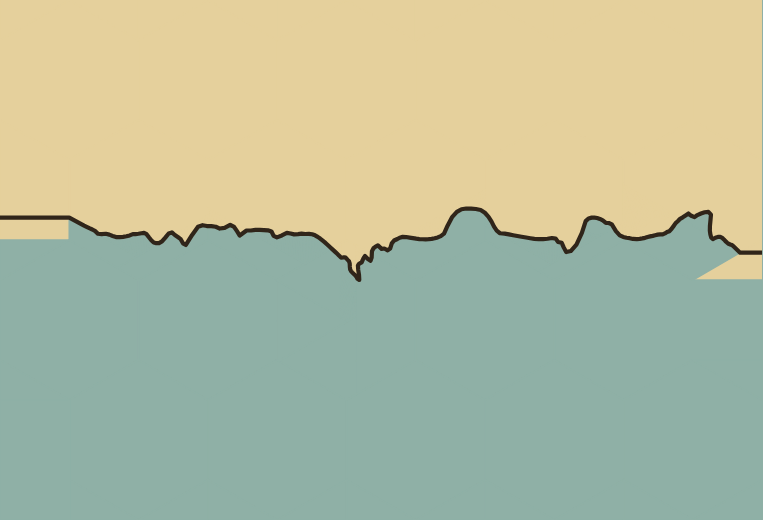
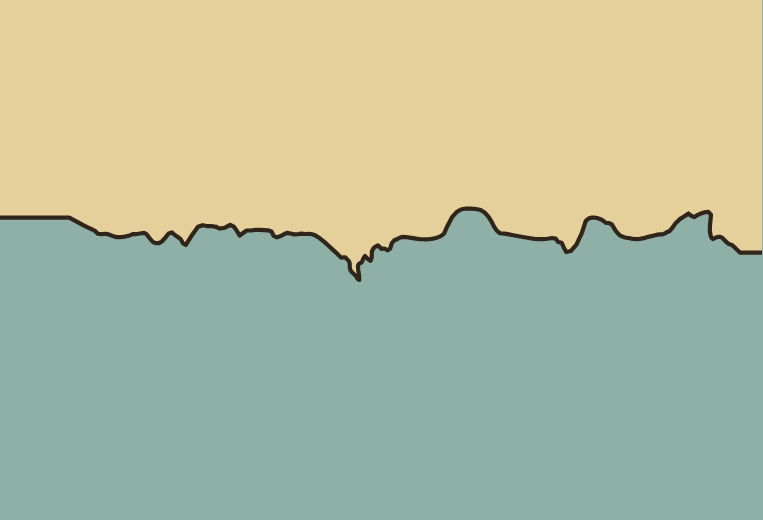
Keep border-notch land inside the finished coastline

Changed region(s): [[0.9043, 0.4923, 1.0, 0.5538], [0.0, 0.4, 0.0904, 0.4615]]

diff --git a/src/render/scene.ts b/src/render/scene.ts
@@ -1458,6 +1458,7 @@ function buildStaticSceneInner(map: MapState, opts: SceneOptions): Scene {
     }
     // The notches the hex grid leaves at the page's edge belong to the border
     // hex beside them: what it is, they are, so nothing stops short of the rim.
+    const rimLand: Prim[] = [];
     for (let i = 0; i < base.length; i++) {
       const col = i % cols;
       const row = Math.floor(i / cols);
@@ -1475,8 +1476,14 @@ function buildStaticSceneInner(map: MapState, opts: SceneOptions): Scene {
         }
         const donor = split ? split.donors[6 + piece.edge]! : i;
         const fill = groundColour(donor);
-        prims.push({ kind: 'path', d: polygonPath(piece.points), fill, stroke: fill, strokeWidth: seal });
+        rimLand.push({ kind: 'path', d: polygonPath(piece.points), fill, stroke: fill, strokeWidth: seal });
       }
+    }
+    // Border-hex ownership does not make its whole rim notch dry. The final
+    // coast may cut through it just as it cuts through the original hex fill.
+    if (rimLand.length) {
+      if (coast?.component) prims.push({ kind: 'group', clip: drawnCoastLand(), clipRule: 'evenodd', prims: rimLand });
+      else prims.push(...rimLand);
     }
     // Clip the original sea fills too: their sealing strokes can otherwise leave tiny
     // traces of old hex edges inside the new coastline, even when later patches are clipped.

diff --git a/docs/drawing-next-agent.md b/docs/drawing-next-agent.md
@@ -49,8 +49,11 @@ The connected failures from the previous handoff were repaired in `f67ca94`, aft
 
 The owner confirmed that the small Parchment coastline difference is relevant, but the synthetic
 before image's stray land at the map boundary is not representative of their map. Do not describe
-those synthetic/SVG screenshots as captures of the owner's before view. Diagnose boundary fragments
-through the actual Canvas/export path before attributing them to owner data or approving their shape.
+those synthetic/SVG screenshots as captures of the owner's before view. A direct Canvas render confirmed
+the rim-fill defect: un-clipped land assigned to border notches could cross the final coast. Rim land
+fills are now clipped to that coast, removing the detached edge fragments without changing land geometry.
+The uniform-default Canvas preview records this visual correction; prior suite results do not validate
+this later change. Do not attribute diagnostic artifacts to owner data.
 
 All preset defaults now use `land: 'uniform'`: coastal land has the same colour as inland land.
 Explicit `land: 'band'` overrides remain available. This is the owner's requested display default,

diff --git a/DECISIONS.md b/DECISIONS.md
@@ -1373,3 +1373,12 @@ compatibility path; new users already start in Parchment. Continue retiring its 
 legacy preference paths with a deliberate migration, rather than further Classic-specific styling.
 Do not silently restyle saved choices or disable its correctness checks. See the owner-review note
 in `docs/drawing-next-agent.md`.
+
+## 66. Clip border-notch land to the finished coast
+
+The owner's visual review rejected detached land fragments at the synthetic fixture's page edge.
+A Canvas render confirms the same defect as the SVG image: land fills for rim notches bypass the
+finished-coast clip used by ordinary land. Group those fills under the same even-odd land clip for
+component coasts. This removes painted spill without moving the coast or changing owner data.
+The updated uniform-land Canvas preview shows the correction; the earlier passing suite is not
+claimed as validation of this later visual fix.
